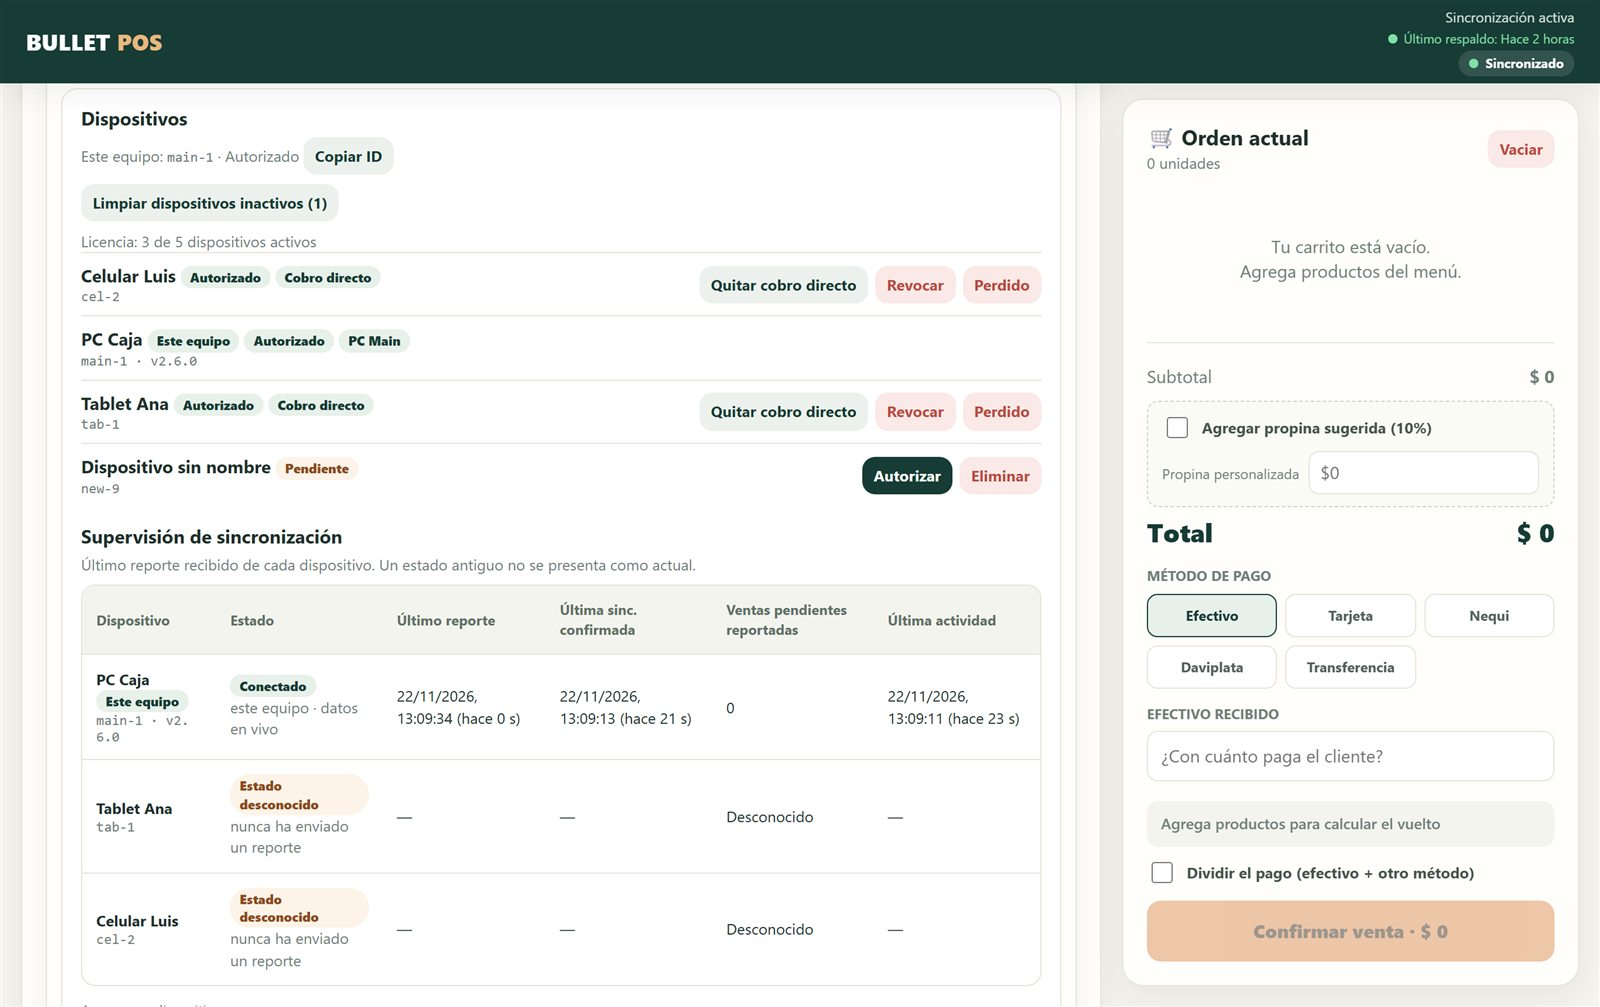
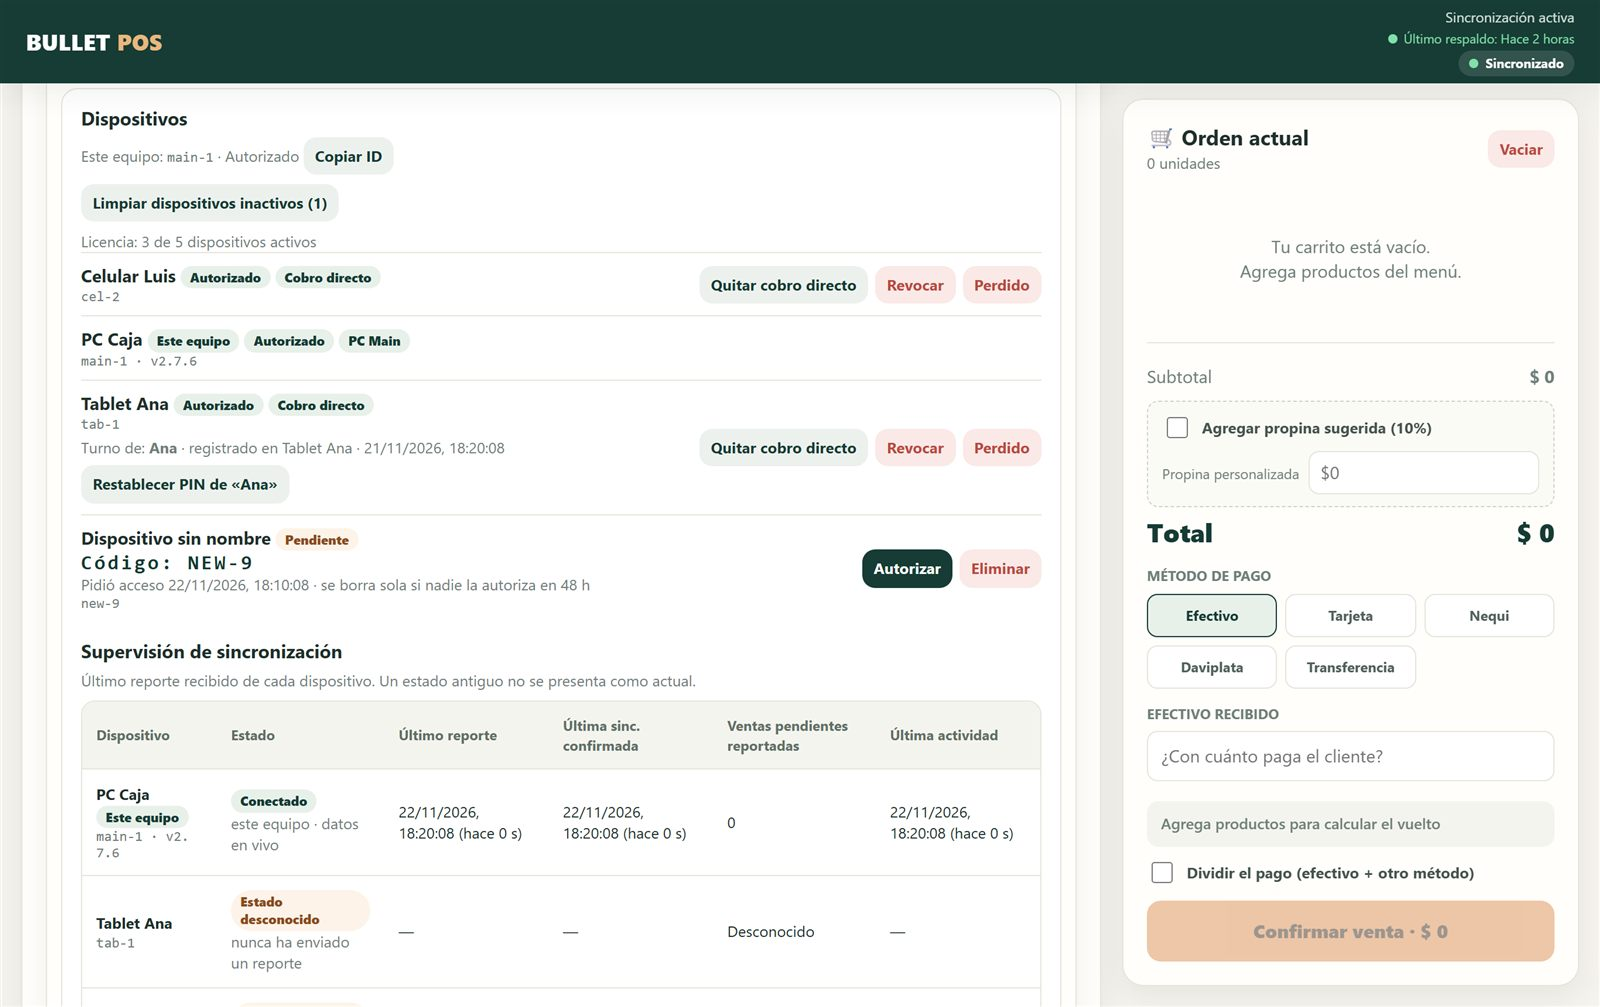
Manual y presentación al día con la 2.7.6

diff --git a/manual/index.html b/manual/index.html
@@ -187,7 +187,7 @@
           <div class="phones">
             <figure><img src="img/m_instalar.jpg" alt="Pantalla para instalar la app" /><figcaption>Instalar la app</figcaption></figure>
             <figure><img src="img/m_activar.jpg" alt="Pantalla para activar el equipo" /><figcaption>Si se abre sin link, pide el código</figcaption></figure>
-            <figure><img src="img/m_pendiente.jpg" alt="Equipo esperando autorización" /><figcaption>Esperando que el PC Main lo autorice</figcaption></figure>
+            <figure><img src="img/m_pendiente.jpg" alt="Equipo esperando autorización" /><figcaption>Esperando autorización: el código se escribe en el PC Main</figcaption></figure>
           </div>
           <div class="warn">Si ves «Activa este equipo», pega el link o el código de tu negocio. <b>No elijas otro negocio.</b></div>
           <h3>2.2 El primer PC Main</h3>
@@ -420,7 +420,7 @@
           <h3>🏪 Negocio</h3>
           <p>Los datos del comprobante (nombre, NIT, dirección, teléfono), la licencia y el negocio al que está activado el equipo, con el link para otro equipo.</p>
           <h3>👥 Equipos y personal</h3>
-          <figure><img src="img/ajustes_equipos.jpg" alt="Equipos y personal" /><figcaption>Dispositivos, con un equipo pendiente de autorizar</figcaption></figure>
+          <figure><img src="img/ajustes_equipos.jpg" alt="Equipos y personal" /><figcaption>Dispositivos: de quién es cada turno y una solicitud pendiente con su código</figcaption></figure>
           <ul>
             <li><b>Dispositivos:</b> Autorizar, Cobro directo, Revocar (con plazo o con borrado), Reportar perdido, Eliminar y la supervisión de sincronización. Al eliminar un equipo que tiene turnos abiertos, la app lo advierte y los cierra administrativamente. En cada equipo se ve <b>quién lo usa</b> y <b>de quién es el turno</b>, con el botón para restablecer el PIN de esa persona.</li>
             <li><b>Personal y PIN:</b> agregar personas, restablecer PIN, desactivar. Las personas desactivadas quedan en un grupo aparte («Personas desactivadas») y se pueden <b>eliminar definitivamente</b>; sus ventas y turnos conservan su nombre.</li>

diff --git a/presentacion/index.html b/presentacion/index.html
@@ -256,7 +256,7 @@
           <div>
             <h3>Tú tienes el control</h3>
             <ul>
-              <li>Tú autorizas cada equipo; si uno se pierde, lo bloqueas al instante.</li>
+              <li>Tú autorizas cada equipo con su código; si uno se pierde, lo bloqueas al instante.</li>
               <li>Un segundo PC para tu administrador, con los permisos que tú elijas.</li>
               <li>Las acciones delicadas piden contraseña y quedan registradas: quién, qué y cuándo.</li>
               <li>Historial completo, anulaciones con motivo y respaldos cuando quieras.</li>
@@ -318,7 +318,7 @@
         <div class="grid g3 steps">
           <div class="card step"><h3>Te activamos</h3><p>Preparamos tu negocio y te enviamos un link de activación.</p></div>
           <div class="card step"><h3>Instalas</h3><p>Abres el link en el PC de la caja y en los celulares o tablets de tu equipo.</p></div>
-          <div class="card step"><h3>Empiezas a vender</h3><p>Autorizas los equipos, cargas tus productos (o los importas desde Excel) y listo.</p></div>
+          <div class="card step"><h3>Empiezas a vender</h3><p>Cada equipo muestra un código: lo escribes en la caja para autorizarlo. Cargas tus productos (o los importas desde Excel) y listo.</p></div>
         </div>
         <div class="card" style="margin-top: 18px">
           <h3 style="margin-top: 0">Lo que necesitas</h3>
